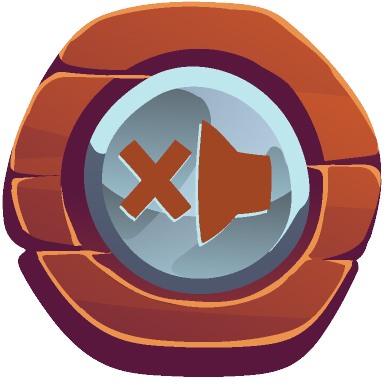
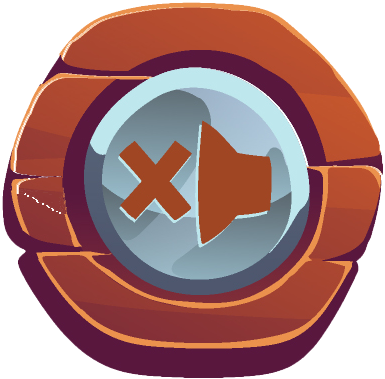
Add bot

diff --git a/senet/menu.py b/senet/menu.py
@@ -15,19 +15,16 @@ def menu(screen):
     button_font = pygame.font.Font("Senet_font-Regular.ttf", 34)
     button_image = pygame.transform.rotozoom(pygame.image.load('images\menu\img_none.png'), 0, 0.3)
 
-    game = Game(screen)
     pygame.init()
     pygame.display.set_caption("Menu")
     pygame.mixer.music.set_volume(0.35)
-    
-
 
     while True:
-        print(pygame.mixer.music.get_volume())
         pos = pygame.mouse.get_pos()
         image_back = pygame.image.load('images\img_back.png')
         image_back = pygame.transform.scale(image_back, (WIDTH, HEIGHT))
         screen.blit(image_back, (0, 0))
+
         # TEXT
         texto = button_font.render(f'MENU', True, BLACK)
         text_rect = texto.get_rect(center=(WIDTH / 2, HEIGHT * 0.1))
@@ -37,18 +34,19 @@ def menu(screen):
 
         distance = 0.17
         play_button = Button(button_image, pos=(WIDTH / 2, HEIGHT * 0.27), text_input='PLAY',
-                             font=button_font, base_color="black", hovering_color="white")
+                             font=button_font, base_color="black", hovering_color="white", y=-7)
         load_button = Button(button_image, pos=(WIDTH / 2, HEIGHT * (0.27 + distance * 1)), text_input='LOAD',
-                             font=button_font, base_color="black", hovering_color="white")
+                             font=button_font, base_color="black", hovering_color="white", y=-7)
         rules_button = Button(button_image, pos=(WIDTH / 2, HEIGHT * (0.27 + distance * 2)), text_input='RULES',
-                              font=button_font, base_color="black", hovering_color="white")
+                              font=button_font, base_color="black", hovering_color="white", y=-7)
         exit_button = Button(button_image, pos=(WIDTH / 2, HEIGHT * (0.27 + distance * 3)), text_input='EXIT',
-                             font=button_font, base_color="black", hovering_color="white")
+                             font=button_font, base_color="black", hovering_color="white", y=-7)
 
 
         for button in [play_button, load_button, rules_button, exit_button]:
             button.changeColor(pos)
             button.update(screen)
+        sound_button = soundButton(screen)
 
         for event in pygame.event.get():
             if event.type == pygame.QUIT:
@@ -56,7 +54,8 @@ def menu(screen):
                 sys.exit()
             if event.type == pygame.MOUSEBUTTONDOWN:
                 if play_button.checkForInput(pos):
-                    play(game, screen)
+                    # play(game, screen)
+                    init_game(screen)
                 if load_button.checkForInput(pos):
                     pass
                 if rules_button.checkForInput(pos):
@@ -64,7 +63,11 @@ def menu(screen):
                 if exit_button.checkForInput(pos):
                     pygame.quit()
                     sys.exit()
-        sound(pos, screen)
+                if sound_button.checkForInput(pos):
+                    if pygame.mixer.music.get_volume() <= 0.1:
+                        pygame.mixer.music.set_volume(0.35)
+                    else:
+                        pygame.mixer.music.set_volume(0)
 
         pygame.display.update()
 
@@ -96,8 +99,9 @@ def play(game, screen):
             if event.type == pygame.KEYDOWN:
                 if event.key == pygame.K_ESCAPE:
                     game.selected = None
+        game.update()
+        game.bot_play()
 
-    game = Game(screen)
     return
 
 
@@ -144,7 +148,7 @@ def game_rules(screen):
     button_image = pygame.transform.rotozoom(pygame.image.load('images\menu\img_none.png'), 0, 0.2)
 
     return_button = Button(button_image, pos=(WIDTH * 0.90, HEIGHT * 0.90), text_input='BACK',
-                           font=button_font, base_color="black", hovering_color="white")
+                           font=button_font, base_color="black", hovering_color="white", y = -7)
 
     while True:
         screen.fill((255, 255, 255))
@@ -171,14 +175,32 @@ def game_rules(screen):
 
 
 def init_game(screen):
-    font = pygame.font.Font("Newathenaunicode-EP3l.ttf", 20)
     button_font = pygame.font.Font("Senet_font-Regular.ttf", 34)
-    button_image = pygame.transform.rotozoom(pygame.image.load('images\menu\img_none.png'), 0, 0.3)
+    button_image = pygame.transform.rotozoom(pygame.image.load('images/menu/stone_button.png'), 0, 0.15)
+    continue_image = pygame.transform.rotozoom(pygame.image.load('images/menu/metal_button.png'), 0, 0.20)
 
-    board_image = pygame.transform.rotozoom(pygame.image.load('images/menu/board.png'), 0, 0.1)
-    board_rect = board_image.get_rect()
+    board_image = pygame.transform.rotozoom(pygame.image.load('images/menu/board.png'), 0, 0.4)
+    board_rect = board_image.get_rect(center=(WIDTH // 2, HEIGHT // 2))
 
-    jogador = ""
+    bullet_on = pygame.transform.rotozoom(pygame.image.load('images/menu/bullet_point_on.png'), 0, 0.25)
+    bullet_off = pygame.transform.rotozoom(pygame.image.load('images/menu/bullet_point_off.png'), 0, 0.25)
+    bot = 0
+
+    player_bullet = Button(bullet_on, pos=(WIDTH * 0.3, HEIGHT * 0.45), text_input='',
+                           font=button_font, base_color="black", hovering_color="black", y=0)
+    bot_bullet = Button(bullet_off, pos=(WIDTH * 0.7, HEIGHT * 0.45), text_input='',
+                        font=button_font, base_color="black", hovering_color="black", y=0)
+
+    # Images and Buttons
+    player_button = Button(button_image, pos=(WIDTH * 0.3, HEIGHT * 0.3), text_input='PLAYER',
+                           font=button_font, base_color="black", hovering_color="black", y=0)
+    bot_button = Button(button_image, pos=(WIDTH * 0.7, HEIGHT * 0.3), text_input='BOT',
+                        font=button_font, base_color="black", hovering_color="black", y=0)
+
+    continue_button = Button(continue_image, pos=(WIDTH // 2, HEIGHT * 0.80), text_input='CONTINUE',
+                             font=button_font, base_color="black", hovering_color="white", y=-2)
+
+    player_name = ""
     text = pygame.font.Font(None, 27)
     activation = True
     option_players = ["Player", "BOT"]
@@ -186,23 +208,42 @@ def init_game(screen):
     write_text = text.render("The first player is:" + random_player, True, BLACK)
 
     while activation:
+        pos = pygame.mouse.get_pos()
         for event in pygame.event.get():
             if event.type == pygame.QUIT:
                 pygame.quit()
                 return
-            if event.type == pygame.KEYDOWN:
-                if event.key == pygame.K_RETURN:
-                    activation = False
-                    player = "Anonymous Player" if not player else player
-                elif event.key == pygame.K_BACKSPACE:
-                    player = player[: -1]
-                else:
-                    player += event.unicode
+            # if event.type == pygame.KEYDOWN:
+            #     if event.key == pygame.K_RETURN:
+            #         activation = False
+            #         player = "Anonymous Player" if not player_name else player_name
+            #     elif event.key == pygame.K_BACKSPACE:
+            #         player_name = player_name[: -1]
+            #     else:
+            #         player_name += event.unicode
+            if event.type == pygame.MOUSEBUTTONDOWN:
+                if bot_bullet.checkForInput(pos):
+                    player_bullet.changeImage(bullet_off)
+                    bot_bullet.changeImage(bullet_on)
+                    bot = 1
+                if player_bullet.checkForInput(pos):
+                    player_bullet.changeImage(bullet_on)
+                    bot_bullet.changeImage(bullet_off)
+                    bot = 0
+                if continue_button.checkForInput(pos):
+                    play(Game(screen, bot), screen)
+                    return
 
-    screen.fill(LIGHT)
-    write_name = text.rendes("Enter your name: " + player, True, BLACK)
-    screen.blit(write_text, (40, 40))
-    screen.blit(write_name, (40, 80))
-    pygame.display.update()
+        screen.fill((255, 255, 255))
+        screen.blit(board_image, board_rect)
+
+        for button in [player_button, bot_button, player_bullet, bot_bullet, continue_button]:
+            button.update(screen)
+            button.changeColor(pos)
+
+        write_name = text.render("Enter your name: " + player_name, True, BLACK)
+        # screen.blit(write_text, (40, 40))
+        screen.blit(write_name, (40, 80))
+        pygame.display.update()
 
     return player_name

diff --git a/senet/button.py b/senet/button.py
@@ -3,7 +3,7 @@ from .constants import WIDTH, HEIGHT
 
 
 class Button:
-    def __init__(self, image, pos, text_input, font, base_color, hovering_color):
+    def __init__(self, image, pos, text_input, font, base_color, hovering_color, y):
         self.image = image
         self.x_pos = pos[0]
         self.y_pos = pos[1]
@@ -14,7 +14,7 @@ class Button:
         if self.image is None:
             self.image = self.text
         self.rect = self.image.get_rect(center=(self.x_pos, self.y_pos))
-        self.text_rect = self.text.get_rect(center=(self.x_pos, self.y_pos - 7))
+        self.text_rect = self.text.get_rect(center=(self.x_pos, self.y_pos + y))
 
     def update(self, screen):
         if self.image is not None:
@@ -34,6 +34,9 @@ class Button:
         else:
             self.text = self.font.render(self.text_input, True, self.base_color)
 
+    def changeImage(self, image):
+        self.image = image
+
 class ButtonOnly:
     def __init__(self, image, pos):
         self.image = image
@@ -51,26 +54,20 @@ class ButtonOnly:
         if self.image is not None:
             screen.blit(self.image, self.rect)
 
-def sound(pos, screen):
-    button_sound_on = pygame.transform.rotozoom(pygame.image.load('images\menu\sound_on.png'), 0, 0.15)
-    sound_on = ButtonOnly(button_sound_on, (50,50))
-    
-    for event in pygame.event.get():
-        if event.type == pygame.MOUSEBUTTONDOWN:
-            if sound_on.checkForInput(pos):
-                if pygame.mixer.music.get_volume() <= 0.1:
-                    pygame.mixer.music.set_volume(0.35)
-                else:
-                    pygame.mixer.music.set_volume(0)
-                    
-        
-    sound_on.update(screen)      
-    return
+def soundButton(screen):
+    if pygame.mixer.music.get_volume() < 0.1:
+        sound_image = pygame.transform.rotozoom(pygame.image.load('images/menu/sound_off.png'), 0, 0.15)
+    else:
+        sound_image = pygame.transform.rotozoom(pygame.image.load('images/menu/sound_on.png'), 0, 0.15)
+    sound_button = ButtonOnly(sound_image, (50, 50))
+    sound_button.update(screen)
+    return sound_button
+
 
             
 def exit_game():
     button_font = pygame.font.Font("Senet_font-Regular.ttf", 34)
     button_image = pygame.transform.rotozoom(pygame.image.load('images\menu\img_none.png'), 0, 0.3)
     exit_button = Button(button_image, pos=(WIDTH / 2, HEIGHT * 0.90), text_input='BACK',
-                         font=button_font, base_color="black", hovering_color="white")
+                         font=button_font, base_color="black", hovering_color="white", y=7)
     return exit_button

diff --git a/senet/game.py b/senet/game.py
@@ -2,11 +2,11 @@ import pygame
 from .constants import WHITE, BLACK, BLUE, SQ_SIZE, HEIGHT, WIDTH, PADDING
 from .board import Board
 from .sticks import Stick
-from .button import Button
-
+from random import choice
+from time import sleep
 
 class Game:
-    def __init__(self, screen):
+    def __init__(self, screen, bot):
         self.move = pygame.mixer.Sound('audio\move.wav')
         self.over = False
         self.winner = None  # BLACK or WHITE
@@ -18,18 +18,12 @@ class Game:
         self.turn = WHITE
         self.play_again = False
         self.screen = screen
-
-        # Buttons
-        # button_font = pygame.font.Font("Senet_font-Regular.ttf", 34)
-        # button_image = pygame.transform.rotozoom(pygame.image.load('images\menu\img_none.png'), 0, 0.3)
-        # self.exit_button = Button(button_image, pos=(WIDTH / 2, HEIGHT * 0.80), text_input='BACK',
-        #                           font=button_font, base_color="black", hovering_color="white")
+        self.bot = bot
 
     def update(self):
         self.board.print_board(self.screen)
         self.sticks.draw_sticks(self.screen)
         self.draw_valid_moves()
-        # self.exit_button.update(self.screen)
         self.valid_moves = self.board.calc_valid_moves(self.sticks.calc_mov(), self.turn)
         self.print_turn()
 
@@ -107,4 +101,18 @@ class Game:
         elif self.board.black_left == 0:
             self.over = True
             self.winner = BLACK
+
+    def bot_play(self):
+        if not self.bot:
+            return
+        if self.turn == BLACK:
+            self.update()
+            if self.valid_moves == {}:
+                self.change_turn()
+                return
+            random_pair = choice(list(self.valid_moves.items()))
+            print(random_pair[0])
+            self.select(random_pair[0][0], random_pair[0][1])
+            self._move(random_pair[1][0], random_pair[1][1])
+            sleep(1)
 
